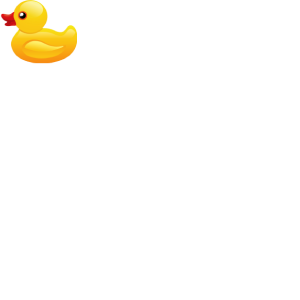
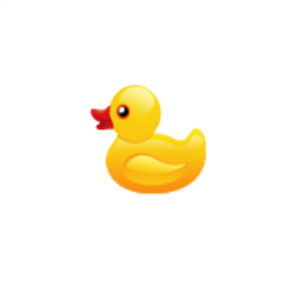
#150 #153

Changed region(s): [[0.3, 0.27, 0.69, 0.66], [0.0, 0.0, 0.27, 0.24]]

diff --git a/packages/map_editor/mapviewer.py b/packages/map_editor/mapviewer.py
@@ -3,12 +3,15 @@ from PyQt5.QtWidgets import QGraphicsView
 from PyQt5 import QtCore, QtGui, QtWidgets
 from map import DuckietownMap
 from utils import get_list_dir_with_path
+from classes.mapObjects import MapBaseObject
+import numpy as np
 
 TILES_DIR_PATH = './img/tiles'
 OBJECT_DIR_PATHS = ['./img/signs',
                     './img/apriltags',
                     './img/objects']
 
+DELTA_EUCLIDEAN_DISTANCE = .1
 
 class MapViewer(QGraphicsView, QtWidgets.QWidget):
     map = None
@@ -27,6 +30,7 @@ class MapViewer(QGraphicsView, QtWidgets.QWidget):
     #  If the selection is outside the array to the right - width / height
     tileSelection = [0] * 4
     selectionChanged = QtCore.pyqtSignal()
+    editObjectChanged = QtCore.pyqtSignal(MapBaseObject)
     lmbClicked = QtCore.pyqtSignal(int, int)  #  click coordinates as an index of the clicked tile
 
     def __init__(self):
@@ -56,7 +60,7 @@ class MapViewer(QGraphicsView, QtWidgets.QWidget):
             return
         self.sc *= sf
         self.scene().update()
-
+    
     def mouseReleaseEvent(self, event: QtGui.QMouseEvent) -> None:
         if event.button() == QtCore.Qt.LeftButton:
             self.lmbPressed = False
@@ -86,13 +90,32 @@ class MapViewer(QGraphicsView, QtWidgets.QWidget):
         self.scene().update()
 
     def mousePressEvent(self, event: QtGui.QMouseEvent) -> None:
+        x, y = event.x(), event.y()
         if event.buttons() == QtCore.Qt.RightButton:
-            self.rmbPrevPos = [event.x(), event.y()]
-            self.rmbPressed = True
+            x_map = (x - self.offsetX) / self.sc / self.map.gridSize
+            y_map = (y - self.offsetY) / self.sc / self.map.gridSize
+            obj = self.find_object(x_map, y_map)
+            if obj:
+                self.editObjectChanged.emit(obj)
+            else:
+                # if press event is not near with any object
+                self.rmbPrevPos = [x, y]
+                self.rmbPressed = True
         elif event.buttons() == QtCore.Qt.LeftButton:
             self.lmbPressed = True
-            self.mouseCurX = self.mouseStartX = event.x()
-            self.mouseCurY = self.mouseStartY = event.y()
+            self.mouseCurX = self.mouseStartX = x
+            self.mouseCurY = self.mouseStartY = y
+
+    def find_object(self, x, y):
+        event_x = np.array((x, y))
+        for layer in self.map.get_object_layers(only_visible=True):
+            for object_from_layer in layer.get_objects():
+                obj_x = object_from_layer.position['x']
+                obj_y = object_from_layer.position['y']
+                obj_array = np.array((obj_x, obj_y))
+                print(np.linalg.norm(obj_array - event_x))
+                if np.linalg.norm(obj_array - event_x) < DELTA_EUCLIDEAN_DISTANCE:
+                    return object_from_layer 
 
     def mouseMoveEvent(self, event: QtGui.QMouseEvent) -> None:
         if self.rmbPressed:
@@ -155,8 +178,9 @@ class MapViewer(QGraphicsView, QtWidgets.QWidget):
 
     def draw_objects(self, layer_data, painter):
         for layer_object in layer_data:
+            width, height = self.map.gridSize * self.sc / 2, self.map.gridSize * self.sc / 2
             painter.drawImage(
-                QtCore.QRectF(self.map.gridSize * self.sc * layer_object.position['x'],
-                              self.map.gridSize * self.sc * layer_object.position['y'],
-                              self.map.gridSize * self.sc / 2, self.map.gridSize * self.sc / 2),
+                QtCore.QRectF(self.map.gridSize * self.sc * layer_object.position['x']- width/2,
+                              self.map.gridSize * self.sc * layer_object.position['y']- height/2,
+                              width, height),
                 self.objects[layer_object.kind]) if layer_object.kind in self.objects else None

diff --git a/packages/map_editor/mainwindow.py b/packages/map_editor/mainwindow.py
@@ -114,6 +114,7 @@ class duck_window(QtWidgets.QMainWindow):
 
         #  Signal from viewer
         self.mapviewer.selectionChanged.connect(self.selectionUpdate)
+        self.mapviewer.editObjectChanged.connect(self.create_form)
 
         #  Assign actions to buttons
         create_map.triggered.connect(self.create_map_triggered)
@@ -581,7 +582,7 @@ class duck_window(QtWidgets.QMainWindow):
                         logger.debug("I can't edit more than one object!")
             self.mapviewer.scene().update()
  
-    def create_form(self, active_object):
+    def create_form(self, active_object: MapObject):
         def accept():
             for attr_name, attr in editable_attrs.items():
                 if attr_name == 'position':
